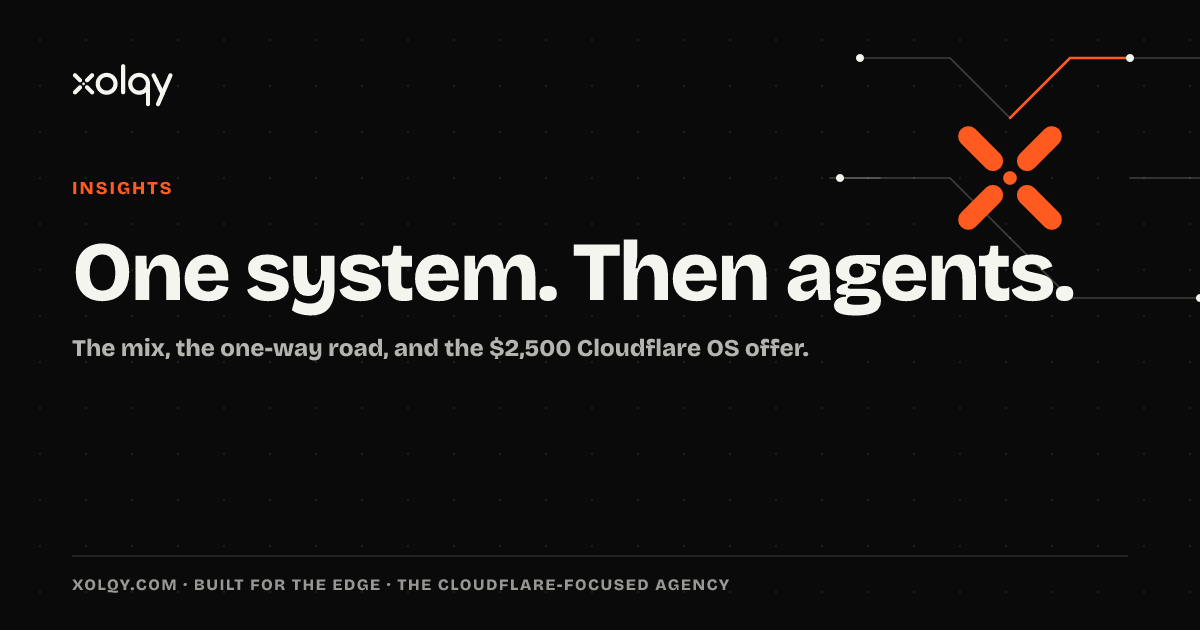
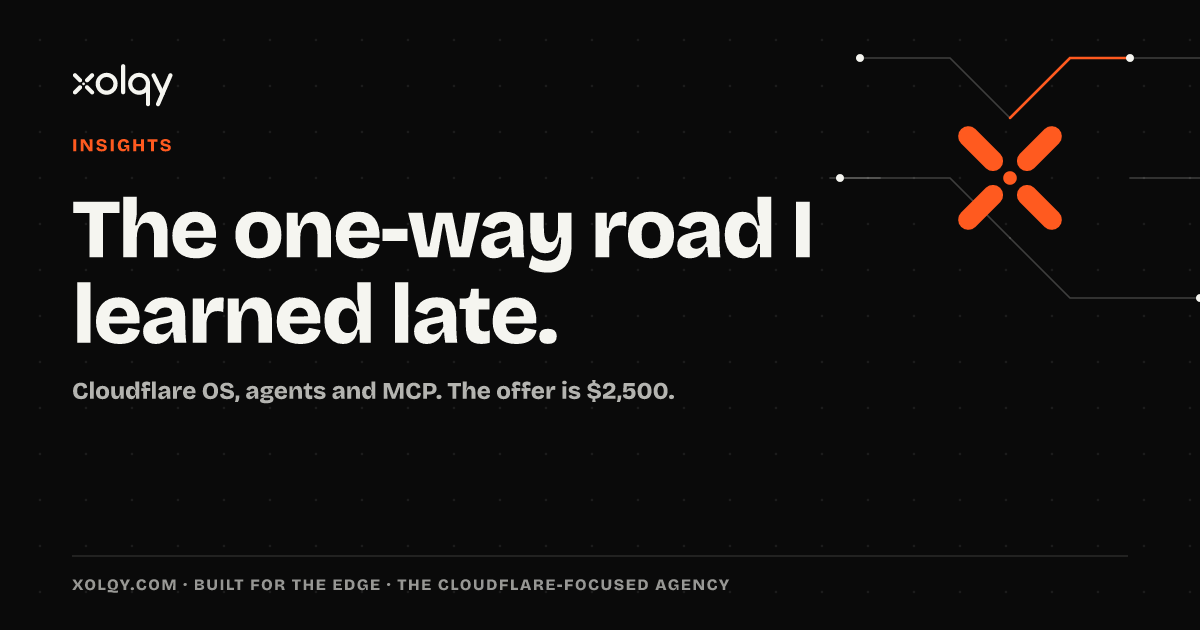
Rewrite the Cloudflare OS agents article in English

Changed region(s): [[0.0617, 0.2714, 0.8942, 0.573], [0.0617, 0.6032, 0.555, 0.6333], [0.0617, 0.2111, 0.1542, 0.2413]]

diff --git a/src/content/insights/cloudflare-os-kai-agentic-mcp.md b/src/content/insights/cloudflare-os-kai-agentic-mcp.md
@@ -1,6 +1,6 @@
 ---
-title: "Cloudflare OS και οι agents: ο μονόδρομος που έμαθα αργά"
-description: "Δουλεύω κάθε μέρα με την Cloudflare και μόλις τώρα είδα ότι όλα χωράνε σε ένα μέρος. Τι χάνεις στο μείγμα τεχνολογιών, και η προσφορά των $2,500."
+title: "Cloudflare OS and agents: the one-way road I learned late"
+description: "I work with Cloudflare every day, and I only just saw that the whole system fits in one place. What the mix of tools costs you, and the $2,500 offer."
 publishedAt: 2026-10-09T17:00:00.000Z
 audience: business
 topics: ["Cloudflare OS", "Agents", "MCP"]
@@ -8,40 +8,40 @@ readingMinutes: 4
 relatedServices: [ai-and-automation, websites-and-applications]
 ---
 
-Δουλεύω με την Cloudflare και την ανάπτυξη κάθε μέρα, και μόλις πρόσφατα ανακάλυψα ότι μπορείς να μπεις με τα όλα σε αυτό το οικοσύστημα. Μέχρι τότε πάλευα με ένα μείγμα τεχνολογιών και APIs, ενώ η Cloudflare τα προσφέρει όλα σε ένα μέρος, φτιαγμένα γι' αυτή τη δουλειά, και πολύ προσιτά.
+I work with Cloudflare and development every day, and only recently discovered you can go all-in on this ecosystem. Until now I was struggling with a mix of technologies and APIs, while Cloudflare offers all of it in one place, purpose-built and very affordable.
 
-Δεν είναι λεπτομέρεια εργαλείου. Είναι η στιγμή που ο παλιός τρόπος τελειώνει, και που κάποιος απέναντί σου μπορεί να το έχει ήδη καταλάβει.
+This is not a tooling detail. It is the moment the old way ends, and the moment someone across from you may already have seen it.
 
-## Τι χάνεις σήμερα
+## What you lose today
 
-Η μέρα μου έμοιαζε με συρτάρι από κλειδιά. Η σελίδα σε έναν host. Η βάση αλλού. Το μοντέλο από άλλον πάροχο. Ένα API για τις πληρωμές, άλλο για το email, άλλο για να μιλήσει κάτι με τον πελάτη. Κάθε νέο αίτημα της επιχείρησης σήμαινε άλλον λογαριασμό, άλλη λήξη, και κόλλα ανάμεσά τους που την έγραφα εγώ.
+My day looked like a drawer of keys. The site on one host. The database somewhere else. The model from another provider. One API for payments, another for email, another so something could talk to the customer. Every new request from the business meant another account, another renewal, and glue in the middle that I wrote myself.
 
-Η Cloudflare ήταν, για καιρό, ο διακόπτης μπροστά από αυτόν τον χαμό. Πορτοκαλί σύννεφο, λίγο πιο γρήγορα, και από πίσω τα ίδια πέντε πάνελ.
+For a long time Cloudflare was the switch in front of that mess. Orange cloud, a bit faster, and the same five panels behind it.
 
-Αυτό που χάνεις δεν είναι ποσοστό που θα εφεύρω. Χάνεις τη βδομάδα που ξοδεύεις για να συνεννοηθούν πράγματα που δεν σχεδιάστηκαν να συναντηθούν. Χάνεις τη δουλειά που θα μπορούσε να κάνει ένας βοηθός, γιατί τα εργαλεία του ζουν σε πέντε μέρη και κανένα δεν εμπιστεύεται το άλλο. Και χάνεις χρόνο, που δεν σου τον επιστρέφει κανείς.
+What you lose is not a percentage I am going to invent. You lose the week you spend making things talk that were never designed to meet. You lose the job an assistant could have done, because its tools live in five places and none of them trusts the others. And you lose time. Nobody gives that back.
 
-## Τι κερδίζεις αύριο
+## What you gain tomorrow
 
-Το [Cloudflare OS](/cloudflare-os/) είναι το όνομά μας για μια απόφαση, όχι προϊόν που πουλάει η Cloudflare. Υπολογισμός, δεδομένα, ασφάλεια, τεχνητή νοημοσύνη και παράδοση, σχεδιασμένα ως ένα σύστημα, στον λογαριασμό που είναι δικός σου.
+[Cloudflare OS](/cloudflare-os/) is our name for a decision, not a product Cloudflare sells. Compute, data, security, AI and delivery, designed as one system, in an account you own.
 
-Εκεί μέσα χωράει και το κομμάτι που έψαχνα αλλού. Οι agents.
+The piece I had been looking for elsewhere fits in there too. Agents.
 
-Ένας agent, σε απλά λόγια, είναι λογισμικό που αναλαμβάνει μια δουλειά και χρησιμοποιεί μόνο τα εργαλεία που του έδωσες. Όχι ό,τι βρει μπροστά του. Το Agents SDK της Cloudflare είναι ο τρόπος να ζει αυτός ο agent δίπλα στο υπόλοιπο σύστημα: κρατάει κατάσταση, μπορεί να περιμένει, μπορεί να μιλάει σε ζωντανή σύνδεση, και σταματάει εκεί που είπες να σταματήσει. Η γραμμή μας είναι η ίδια με την υπηρεσία [AI και αυτοματισμού](/services/ai-and-automation/): στενά δικαιώματα, καταγραφή κάθε κλήσης, και άνθρωπος μπροστά από οτιδήποτε αγγίζει χρήματα, δεδομένα ή τον πελάτη.
+An agent, in plain words, is software that takes a job and uses only the tools you handed it. Not whatever it finds lying around. Cloudflare’s Agents SDK is how that agent lives next to the rest of the system: it keeps state, it can wait, it can talk over a live connection, and it stops where you said stop. Our line is the same as the [AI and automation](/services/ai-and-automation/) service: narrow permissions, a log of every call, and a person in front of anything that touches money, data or the customer.
 
-Το MCP είναι η κοινή πρίζα. Αντί να γράφεις ιδιωτική σύνδεση για κάθε βοηθό, ανοίγεις τις λίγες ενέργειες που η επιχείρηση όντως θέλει να γίνονται. Ένας απομακρυσμένος MCP server πάνω σε [Workers](/wiki/workers/) σημαίνει ότι αυτή η πρίζα τρέχει στο ίδιο δίκτυο με τα υπόλοιπα, στον δικό σου λογαριασμό, χωρίς μηχάνημα που το συντηρείς εσύ κάθε Παρασκευή.
+MCP is the shared socket. Instead of a private integration for every assistant, you open the few actions the business actually wants done. A remote MCP server on [Workers](/wiki/workers/) means that socket runs on the same network as the rest, in your own account, without a machine you are patching on a Friday night.
 
-Αύριο το ίδιο αίτημα δεν ανοίγει πέντε πάνελ. Ρωτάει ένα σύστημα που ξέρει πού είναι τα δεδομένα, ποιος επιτρέπεται να μπει, και ποιο εργαλείο επιτρέπεται να απαντήσει.
+Tomorrow the same request does not open five panels. It asks one system that knows where the data is, who is allowed in, and which tool is allowed to answer.
 
-## Γιατί είναι μονόδρομος
+## Why it is a one-way road
 
-Το είδα αργά. Όχι επειδή έλειπε η πλατφόρμα. Την άγγιζα κάθε μέρα. Το είδα αργά επειδή συνήθισα το μείγμα και το πέρασα για κανονικότητα. Αν το διαβάζεις τώρα, είσαι στο ίδιο σημείο που ήμουν εγώ: μέσα στη δουλειά, και ακόμα στο παλιό σχήμα.
+I saw it late. Not because the platform was missing. I touched it every day. I saw it late because I got used to the mix and mistook it for normal. If you are reading this now, you are where I was: in the work, and still in the old shape.
 
-Ο δρόμος αυτός δεν γυρίζει πίσω με άνεση. Όταν ο βοηθός, τα δεδομένα και η πόρτα του πελάτη είναι το ίδιο σύστημα, η επιστροφή στα πέντε APIs είναι η δουλειά που ήδη άφησες. Όσοι είναι μέσα στο οικοσύστημα δεν σου στέλνουν σημείωμα. Κάποιος που ανταγωνίζεσαι μπορεί να το ξέρει ήδη. Δεν θα σου πει ποιος.
+This road does not turn around comfortably. Once the assistant, the data and the customer’s front door are the same system, going back to five APIs is the job you already left. People inside the ecosystem do not send you a note. Someone you compete with may already know. They will not tell you who.
 
-Δεν υπόσχομαι κατάταξη, ταχύτητα ή λογαριασμό πλατφόρμας με νούμερα. Αυτά μετριούνται στο δικό σου έργο, αλλιώς δεν λέγονται. Η σειρά της δουλειάς είναι σταθερή: έλεγχος, αρχιτεκτονική, χτίσιμο στον λογαριασμό σου, παράδοση. Η συνεχής υποστήριξη μένει ξεχωριστή μηνιαία συμφωνία, όχι κρυφό κομμάτι μιας τιμής.
+I will not promise rankings, speed or a platform bill with numbers. Those are measured on your project, or they are not claimed. The sequence of the work stays the same: audit, architecture, build in your account, handover. Ongoing support stays a separate monthly agreement, not a hidden part of one price.
 
-## Η πόρτα
+## The door
 
-Διάβασε τι εννοούμε, χωρίς κατάλογο προϊόντων, στο [Cloudflare OS](/cloudflare-os/).
+Read what we mean, without a product catalogue, on [Cloudflare OS](/cloudflare-os/).
 
-Η προσφορά πριν τη Black Friday για αυτό το πακέτο είναι [$2,500](/shop/#cloudflare-os), στη μισή τιμή. Ο λογαριασμός μένει δικός σου.
+The pre-Black Friday price for this package is [$2,500](/shop/#cloudflare-os), half price. The account stays yours.
